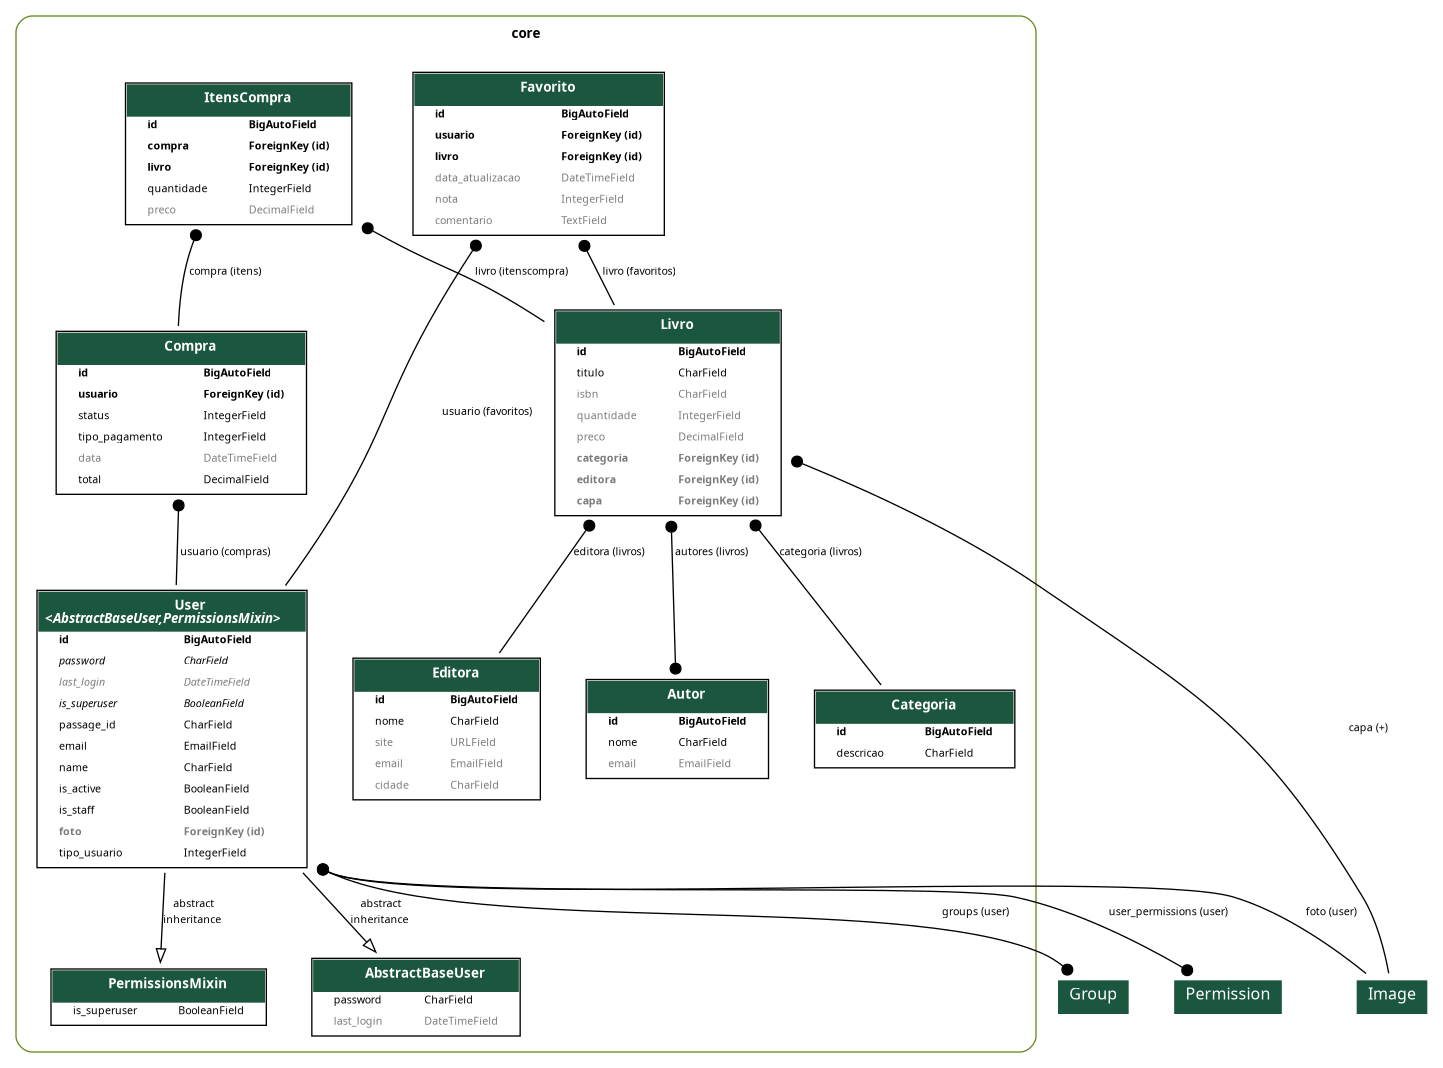
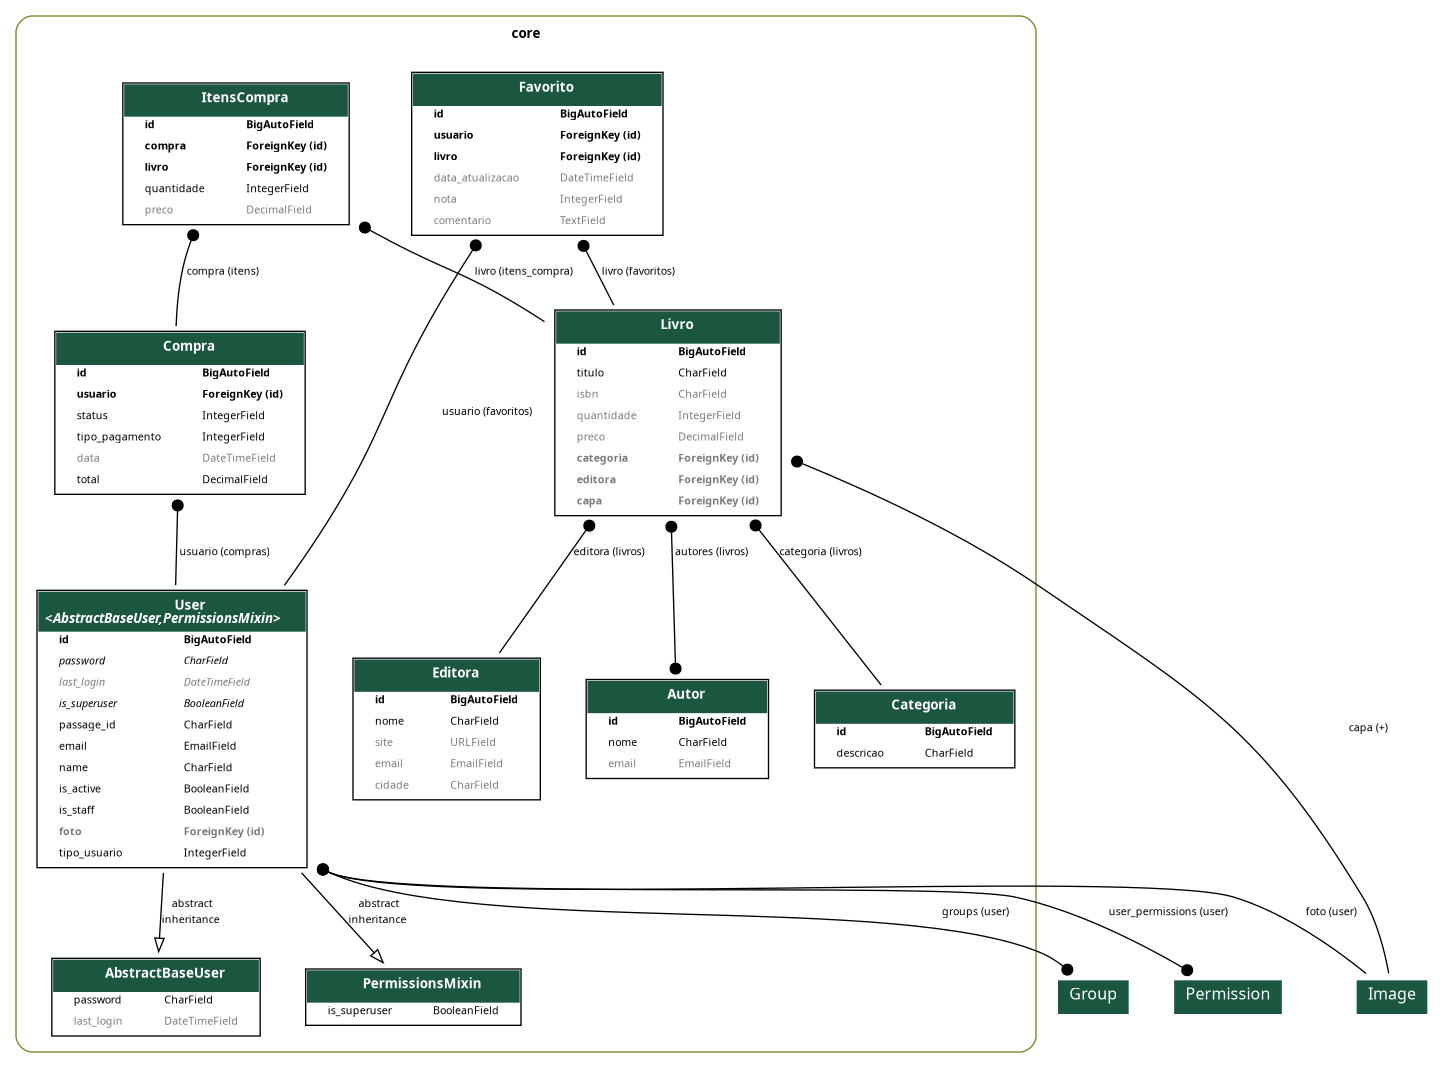
fix: #35c: corrige ação personalizada para ajustar estoque

diff --git a/core/serializers/livro.py b/core/serializers/livro.py
@@ -13,18 +13,6 @@ from uploader.models import Image
 from uploader.serializers import ImageSerializer
 
 
-class LivroAjustarEstoqueSerializer(Serializer):
-    quantidade = IntegerField()
-
-    def validate_quantidade(self, value):
-        livro = self.context.get('livro')
-        if livro:
-            nova_quantidade = livro.quantidade + value
-            if nova_quantidade < 0:
-                raise ValidationError('A quantidade em estoque não pode ser negativa.')
-        return value
-
-
 class LivroAdicionarAoCarrinhoSerializer(Serializer):
     quantidade = IntegerField(default=1, min_value=1)
 
@@ -37,6 +25,18 @@ class LivroAdicionarAoCarrinhoSerializer(Serializer):
         return data
 
 
+class LivroAjustarEstoqueSerializer(Serializer):
+    quantidade = IntegerField()
+
+    def validate_quantidade(self, value):
+        livro = self.context.get('livro')
+        if livro:
+            nova_quantidade = livro.quantidade + value
+            if nova_quantidade < 0:
+                raise ValidationError('A quantidade em estoque não pode ser negativa.')
+        return value
+
+
 class LivroAlterarPrecoSerializer(Serializer):
     preco = DecimalField(max_digits=10, decimal_places=2)
 
@@ -45,36 +45,6 @@ class LivroAlterarPrecoSerializer(Serializer):
         if value <= 0:
             raise ValidationError('O preço deve ser um valor positivo.')
         return value
-
-
-class LivroRetrieveSerializer(ModelSerializer):
-    capa = ImageSerializer(required=False)
-
-    class Meta:
-        model = Livro
-        fields = '__all__'
-        depth = 1
-
-
-class LivroListSerializer(ModelSerializer):
-    class Meta:
-        model = Livro
-        fields = ['id', 'titulo', 'preco']
-
-
-class LivroSerializer(ModelSerializer):
-    capa_attachment_key = SlugRelatedField(
-        source='capa',
-        queryset=Image.objects.all(),
-        slug_field='attachment_key',
-        required=False,
-        write_only=True,
-    )
-    capa = ImageSerializer(required=False, read_only=True)
-
-    class Meta:
-        model = Livro
-        fields = '__all__'
 
 
 class LivroComFavoritosSerializer(ModelSerializer):
@@ -97,3 +67,41 @@ class LivroComFavoritosSerializer(ModelSerializer):
 
     def get_comentarios(self, obj):
         return obj.favoritos.exclude(comentario__isnull=True).values('usuario__email', 'comentario', 'nota')
+
+
+class LivroListSerializer(ModelSerializer):
+    class Meta:
+        model = Livro
+        fields = ['id', 'titulo', 'preco']
+
+
+class LivroMaisVendidoSerializer(ModelSerializer):
+    total_vendidos = IntegerField()
+
+    class Meta:
+        model = Livro
+        fields = ['id', 'titulo', 'total_vendidos']
+
+
+class LivroRetrieveSerializer(ModelSerializer):
+    capa = ImageSerializer(required=False)
+
+    class Meta:
+        model = Livro
+        fields = '__all__'
+        depth = 1
+
+
+class LivroSerializer(ModelSerializer):
+    capa_attachment_key = SlugRelatedField(
+        source='capa',
+        queryset=Image.objects.all(),
+        slug_field='attachment_key',
+        required=False,
+        write_only=True,
+    )
+    capa = ImageSerializer(required=False, read_only=True)
+
+    class Meta:
+        model = Livro
+        fields = '__all__'

diff --git a/core/views/livro.py b/core/views/livro.py
@@ -15,6 +15,7 @@ from core.serializers import (
     LivroAjustarEstoqueSerializer,
     LivroAlterarPrecoSerializer,
     LivroListSerializer,
+    LivroMaisVendidoSerializer,
     LivroRetrieveSerializer,
     LivroSerializer,
 )
@@ -80,27 +81,27 @@ class LivroViewSet(ModelViewSet):
         )
 
     @extend_schema(
-        summary="Livros mais vendidos",
-        description="Retorna os livros com mais de 10 unidades vendidas.",
-        responses={200: None},
+        summary="Lista os livros mais vendidos",
+        description="Retorna os livros que venderam mais de 10 unidades.",
+        responses={
+            200: LivroMaisVendidoSerializer(many=True)
+        },
     )
     @action(detail=False, methods=['get'])
     def mais_vendidos(self, request):
-        """
-        Retorna os livros com mais de 10 unidades vendidas.
-        """
-        livros = Livro.objects.annotate(total_vendidos=Sum('itenscompra__quantidade')).filter(total_vendidos__gt=10)
+        livros = Livro.objects.annotate(
+            total_vendidos=Sum('itens_compra__quantidade')
+        ).filter(total_vendidos__gt=10).order_by('-total_vendidos')
 
-        data = [
-            {
-                'id': livro.id,
-                'titulo': livro.titulo,
-                'total_vendidos': livro.total_vendidos,
-            }
-            for livro in livros
-        ]
+        serializer = LivroMaisVendidoSerializer(livros, many=True)
 
-        return Response(data, status=status.HTTP_200_OK)
+        if not serializer.data:
+            return Response(
+                {"detail": "Nenhum livro excedeu 10 vendas."},
+                status=status.HTTP_200_OK
+            )
+
+        return Response(serializer.data, status=status.HTTP_200_OK)
 
     @extend_schema(
         summary="Adicionar livro ao carrinho",

diff --git a/core/migrations/0034_alter_itenscompra_livro.py b/core/migrations/0034_alter_itenscompra_livro.py
@@ -1,0 +1,19 @@
+# Generated by Django 5.2.3 on 2025-10-13 14:39
+
+import django.db.models.deletion
+from django.db import migrations, models
+
+
+class Migration(migrations.Migration):
+
+    dependencies = [
+        ('core', '0033_alter_livro_preco_alter_livro_titulo'),
+    ]
+
+    operations = [
+        migrations.AlterField(
+            model_name='itenscompra',
+            name='livro',
+            field=models.ForeignKey(on_delete=django.db.models.deletion.PROTECT, related_name='itens_compra', to='core.livro'),
+        ),
+    ]

diff --git a/core/models/compra.py b/core/models/compra.py
@@ -37,6 +37,6 @@ class Compra(models.Model):
 
 class ItensCompra(models.Model):
     compra = models.ForeignKey(Compra, on_delete=models.CASCADE, related_name='itens')
-    livro = models.ForeignKey(Livro, on_delete=models.PROTECT, related_name='itenscompra')
+    livro = models.ForeignKey(Livro, on_delete=models.PROTECT, related_name='itens_compra')
     quantidade = models.IntegerField(default=1)
     preco = models.DecimalField(max_digits=10, decimal_places=2, blank=True, null=True, default=0)

diff --git a/core/serializers/__init__.py b/core/serializers/__init__.py
@@ -15,7 +15,9 @@ from .livro import (
     LivroAdicionarAoCarrinhoSerializer,
     LivroAjustarEstoqueSerializer,
     LivroAlterarPrecoSerializer,
+    LivroComFavoritosSerializer,
     LivroListSerializer,
+    LivroMaisVendidoSerializer,
     LivroRetrieveSerializer,
     LivroSerializer,
 )
